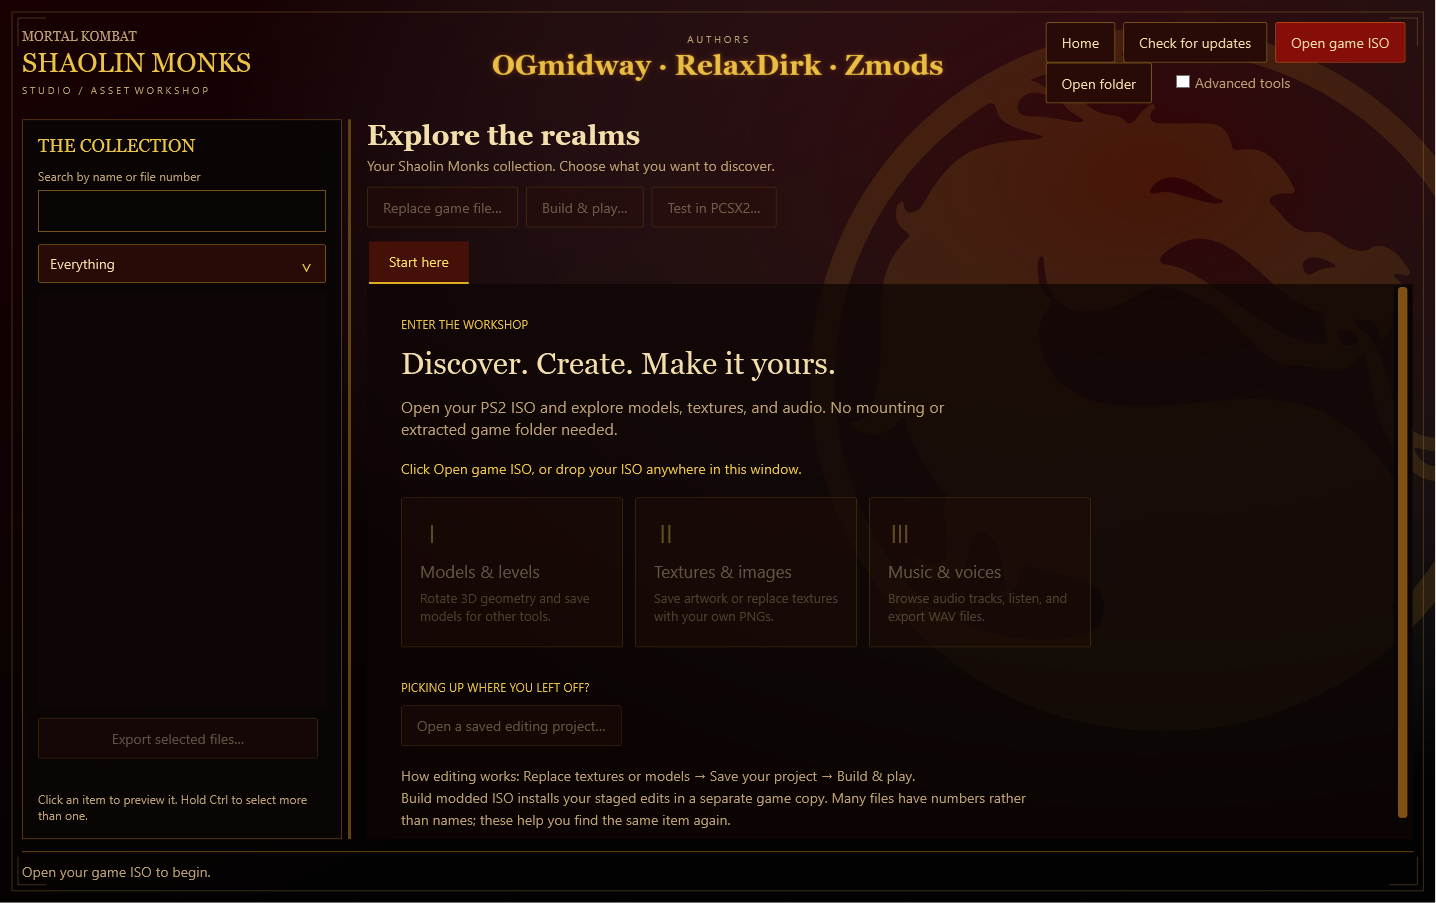
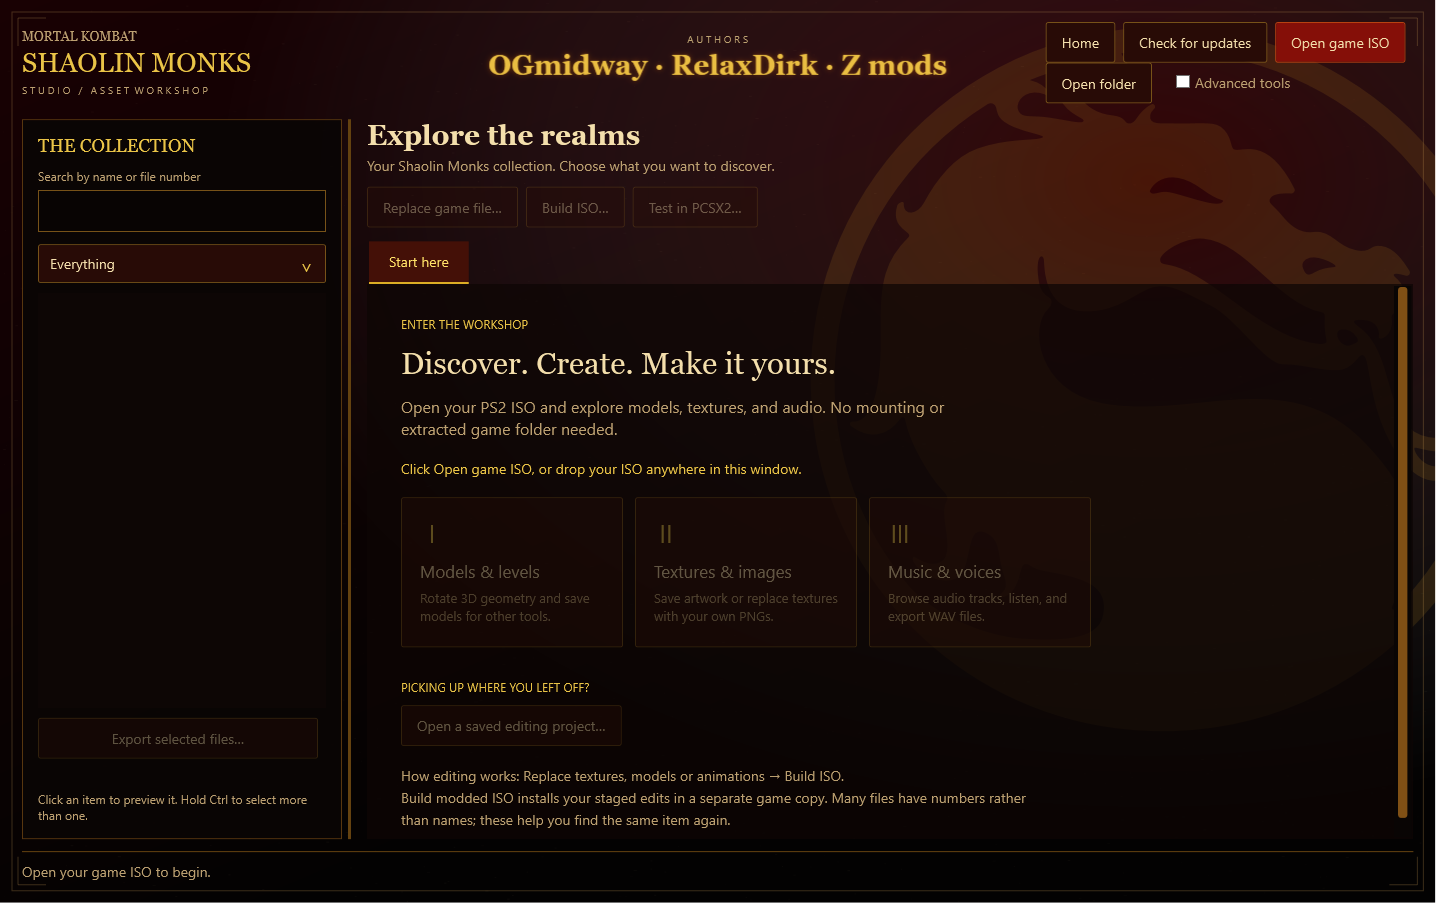
Document 0.24.3 ISO building fixes and Z mods credit

diff --git a/docs/PROJECTS_AND_TESTING.md b/docs/PROJECTS_AND_TESTING.md
@@ -8,7 +8,7 @@ Begin with one recognizable change, such as a supported texture recolor. Confirm
 
 ## 1. Stage and save
 
-Supported texture, shape and native replacements enter the editing project. Animation imports first live in lab preview: choose **Add animation to project** to stage them.
+Supported texture, shape and native replacements enter the editing project. Validated character imports (including their textures) and edited animation clips loaded from the game also enter the project automatically. Banks loaded as standalone files must be saved and imported into their correct game resource; Studio does not guess their destination. Camera, visibility and other preview settings do not change the native game.
 
 **Save project…** writes a `.mksmproject`. **Open project…** validates it against the source game. The project is the edit collection, not an ISO. Use **Undo last change** for the selected resource or **Restore original** to remove its staged edit. **Export edited files…** saves standalone native copies. Save before closing/updating.
 
@@ -20,12 +20,14 @@ Rebuilt supported resources may grow/shrink in byte size; the builder relocates 
 
 ## 3. Build a separate ISO
 
-1. Open the original ISO and saved project.
+1. Open the original ISO or extracted game folder. Open a saved project if you have one; saving a project is not required to build current edits.
 2. Review staged resources/previews.
-3. Choose **Build & play…**.
-4. Select a new output ISO path with enough free space.
+3. Choose **Build ISO…**. If you opened a folder, choose its matching original ISO.
+4. Select a new output ISO path with enough free space. Choose **Build ISO only** to save without launching an emulator, or **Build & boot in PCSX2** to launch afterward.
 5. Let rebuilding and verification finish. An incomplete output is not a playable image.
 6. Keep the original ISO/project for comparison and recovery.
+
+**Zero edits are allowed:** Build ISO only creates a byte-for-byte unchanged copy of your original ISO. With edits, every currently staged resource is included. The original is never overwritten.
 
 The builder updates supported archive placement and ISO extents and verifies installed bytes. Tagged higher-precision animation edits require the matching supported compatibility patch. An unvalidated game executable revision is not treated as equivalent.
 
@@ -33,7 +35,7 @@ The builder updates supported archive placement and ISO extents and verifies ins
 
 Choose your PCSX2 executable in the testing workflow. A separate test profile keeps test settings/memory cards separate from normal defaults. Configure your own BIOS and controls as needed.
 
-**Test in PCSX2…** can boot an existing ISO. **Build & play…** installs current staged edits into a new one. PCSX2, BIOS and game files are not included.
+**Test in PCSX2…** can boot an existing ISO. **Build ISO…** installs current staged edits into a new one. PCSX2, BIOS and game files are not included.
 
 ## 5. Verify gameplay
 

diff --git a/README.md b/README.md
@@ -4,7 +4,7 @@
 
 # Mortal Kombat Shaolin Monks Modding Tool by OG Midway
 
-**MKSM Studio — by OGmidway, RelaxDirk & Zmods**
+**MKSM Studio — by OGmidway, RelaxDirk & Z mods**
 
 Explore the game. Work with its characters and animations. Build a separate modded ISO to test your changes.
 
@@ -16,7 +16,7 @@ Explore the game. Work with its characters and animations. Build a separate modd
 
 ## 1. What is MKSM Studio?
 
-MKSM Studio is a Windows application for researching and modifying **Mortal Kombat: Shaolin Monks for PlayStation 2**. Open your own game ISO directly, browse supported resources, preview textured characters and their original skeletons, play native animations, export to Blender or Godot, and collect supported edits in a project. Build & play writes a **new ISO** and can launch it in PCSX2.
+MKSM Studio is a Windows application for researching and modifying **Mortal Kombat: Shaolin Monks for PlayStation 2**. Open your own game ISO directly, browse supported resources, preview textured characters and their original skeletons, play native animations, export to Blender or Godot, and collect supported edits in a project. Build ISO writes a **new ISO** and can launch it in PCSX2.
 
 You do not need to mount or unpack the ISO to begin. You do need your own game files. The download does not contain the game, a BIOS, character assets, or an emulator.
 
@@ -25,7 +25,7 @@ This is an independent, experimental modding tool. The best-tested workflows use
 ## 2. Download and open
 
 1. Open **[Releases](https://github.com/OGmidway/Mortal-Kombat-Shaolin-Monks-Modding-Tool/releases/latest)**.
-2. Download **MKSM-Studio-0.24.2-win-x64.zip** (or the newest equivalent Windows ZIP).
+2. Download **MKSM-Studio-0.24.3-win-x64.zip** (or the newest equivalent Windows ZIP).
 3. Extract the entire ZIP into a regular folder you can write to, such as `Documents/MKSM Studio`. Do not run it from inside the ZIP.
 4. Double-click **MKSM Studio.exe**, recognizable by its gold dragon icon.
 5. Click **Open game ISO** and select your Shaolin Monks PS2 ISO.
@@ -78,7 +78,7 @@ This public repository contains documentation and release downloads. **The main 
 
 ## 6. Credits and support
 
-**Tool authors: OGmidway, RelaxDirk & Zmods.** See [Credits and notices](docs/CREDITS.md) for research references, runtime licenses and dragon artwork attribution.
+**Tool authors: OGmidway, RelaxDirk & Z mods.** See [Credits and notices](docs/CREDITS.md) for research references, runtime licenses and dragon artwork attribution.
 
 For a useful bug report, include the tool version, game region/revision, resource ID, steps to reproduce, and exact error. Share a screenshot or text report where helpful; do not upload an ISO, BIOS or extracted game archive. See [support details](docs/UPDATES_AND_HELP.md#reporting-a-problem).
 

diff --git a/docs/ANIMATIONS.md b/docs/ANIMATIONS.md
@@ -52,9 +52,9 @@ The number is the one-based source-bank position. The internal original name sta
 6. Enable **Use Blender timing** for intentional length/key timing changes; otherwise retain native timing.
 7. Choose **Higher precision** for an eligible packed clip if needed, then **Import edited clip…**.
 8. Play/scrub the native result and inspect reported quantization/mesh differences.
-9. Choose **Add animation to project**, save the project and build a new ISO. **Save native bank** writes a standalone replacement and compatibility report instead.
+9. For a bank opened from the game, a successful edited import is automatically added to the project. Close the lab and choose **Build ISO…**. Save the project to keep the edits for later. **Save native bank** writes a standalone replacement and compatibility report instead.
 
-Importing into the lab is a preview step. **Add animation to project** stages the edit for ISO building. Commit/save intended edits before closing the lab.
+Game-backed imports are staged automatically after native validation. No-change imports preserve the bank without adding an edit. Standalone banks loaded from disk have no assumed game destination: use **Save native bank**, then **Replace game file…** on the correct resource. **Add animation to project** remains available for any pending game-backed edit.
 
 ## Native limits and higher precision
 

diff --git a/docs/MODELS_AND_BLENDER.md b/docs/MODELS_AND_BLENDER.md
@@ -47,8 +47,8 @@ Use this for proportion corrections, moving existing vertices or UV adjustments 
 4. Use supported original material identities and native texture dimensions/layouts.
 5. Choose **Save Replacement for Studio** in the bridge.
 6. Select the original character in Studio and choose **Import character…**, then **1. Choose character…**.
-7. Review the rebuilt native preview and reported limits. Use **3. Add to project** to stage the character and textures together; **Save native copies…** is available for standalone output.
-8. Save the project and **Build & play…**. Test the actual character in gameplay.
+7. Review the rebuilt native preview and reported limits. Successful imports automatically stage the character and textures together; **Save native copies…** is available for standalone output.
+8. Choose **Build ISO…**, then **Build ISO only** or **Build & boot in PCSX2**. Save the project if you want to keep the edits for a later session. Test the actual character in gameplay.
 
 The compiler creates native skin batches and quantizes weights/positions. It supports up to four influences per vertex and four distinct bones per triangle in this workflow. Different topology can work within supported constraints. Unsupported material, coordinate or rig layouts are rejected with an explanation.
 

diff --git a/docs/UPDATES_AND_HELP.md b/docs/UPDATES_AND_HELP.md
@@ -37,7 +37,7 @@ For manual recovery, close Studio and extract the desired complete release into 
 | Cannot replace EXE | Close other instances, use a writable normal folder or extract a fresh full release. |
 | No newer version | Latest verified release is the same or older; no reinstall needed. |
 | Newer updater required | Download/extract the complete Windows ZIP manually. |
-| Build & play unavailable | Open an ISO source and stage supported edits. |
+| Build ISO unavailable | Open a game ISO or extracted game folder and wait for any active operation to finish. Zero edits are allowed. Folder sources ask for the matching original ISO. |
 | Model invisible/incomplete | Fit view; check Surfaces, Extra meshes, texture selection and Transparency. |
 | Animation twists/flips | Verify original model, bank, profile and clip; record IDs if reproducible. |
 | Blender return rejected | Use the correct shape/replacement/animation path and preserve companions/rig identities. |

diff --git a/CHANGELOG.md b/CHANGELOG.md
@@ -1,5 +1,16 @@
 # Release notes
 
+## 0.24.3 — Build ISO fixes
+
+- **Build ISO…** is available after opening a game, even with no edits or selected resource.
+- **Build ISO only** saves without PCSX2; **Build & boot in PCSX2** remains a separate option.
+- Zero edits produce a byte-for-byte unchanged ISO copy.
+- Extracted-folder sessions can build using their matching original ISO.
+- Current staged edits are included without requiring a project save first. Validated character/texture imports and game-backed animation imports are staged automatically.
+- Corrects the glowing author name to **Z mods**.
+- Preserves source matching, output protection and replacement read-back checks.
+
+
 ## 0.24.2 — Zmods author credit
 
 - Adds **Zmods** to the centered author credits with the same looping gold glow and shimmer.

diff --git a/docs/GETTING_STARTED.md b/docs/GETTING_STARTED.md
@@ -20,7 +20,7 @@ The application includes its .NET runtime. Internet access is needed for updates
 5. Wait for the collection to load. Choose a category or enter a file number in search.
 6. Click a resource to see its preview and available actions.
 
-**Open folder** is for already extracted game files. ISO building needs an ISO source, so start from the ISO for Build & play.
+**Open folder** is for already extracted game files. When you choose **Build ISO…**, select the matching original ISO when prompted. Your staged folder edits will be included.
 
 ## Understanding the screen
 

diff --git a/docs/CREDITS.md b/docs/CREDITS.md
@@ -4,7 +4,7 @@
 
 ## Tool authors
 
-**OGmidway, RelaxDirk & Zmods**
+**OGmidway, RelaxDirk & Z mods**
 
 Presented as **Mortal Kombat Shaolin Monks Modding Tool by OG Midway**, with all three tool authors credited in the application and documentation.
 
